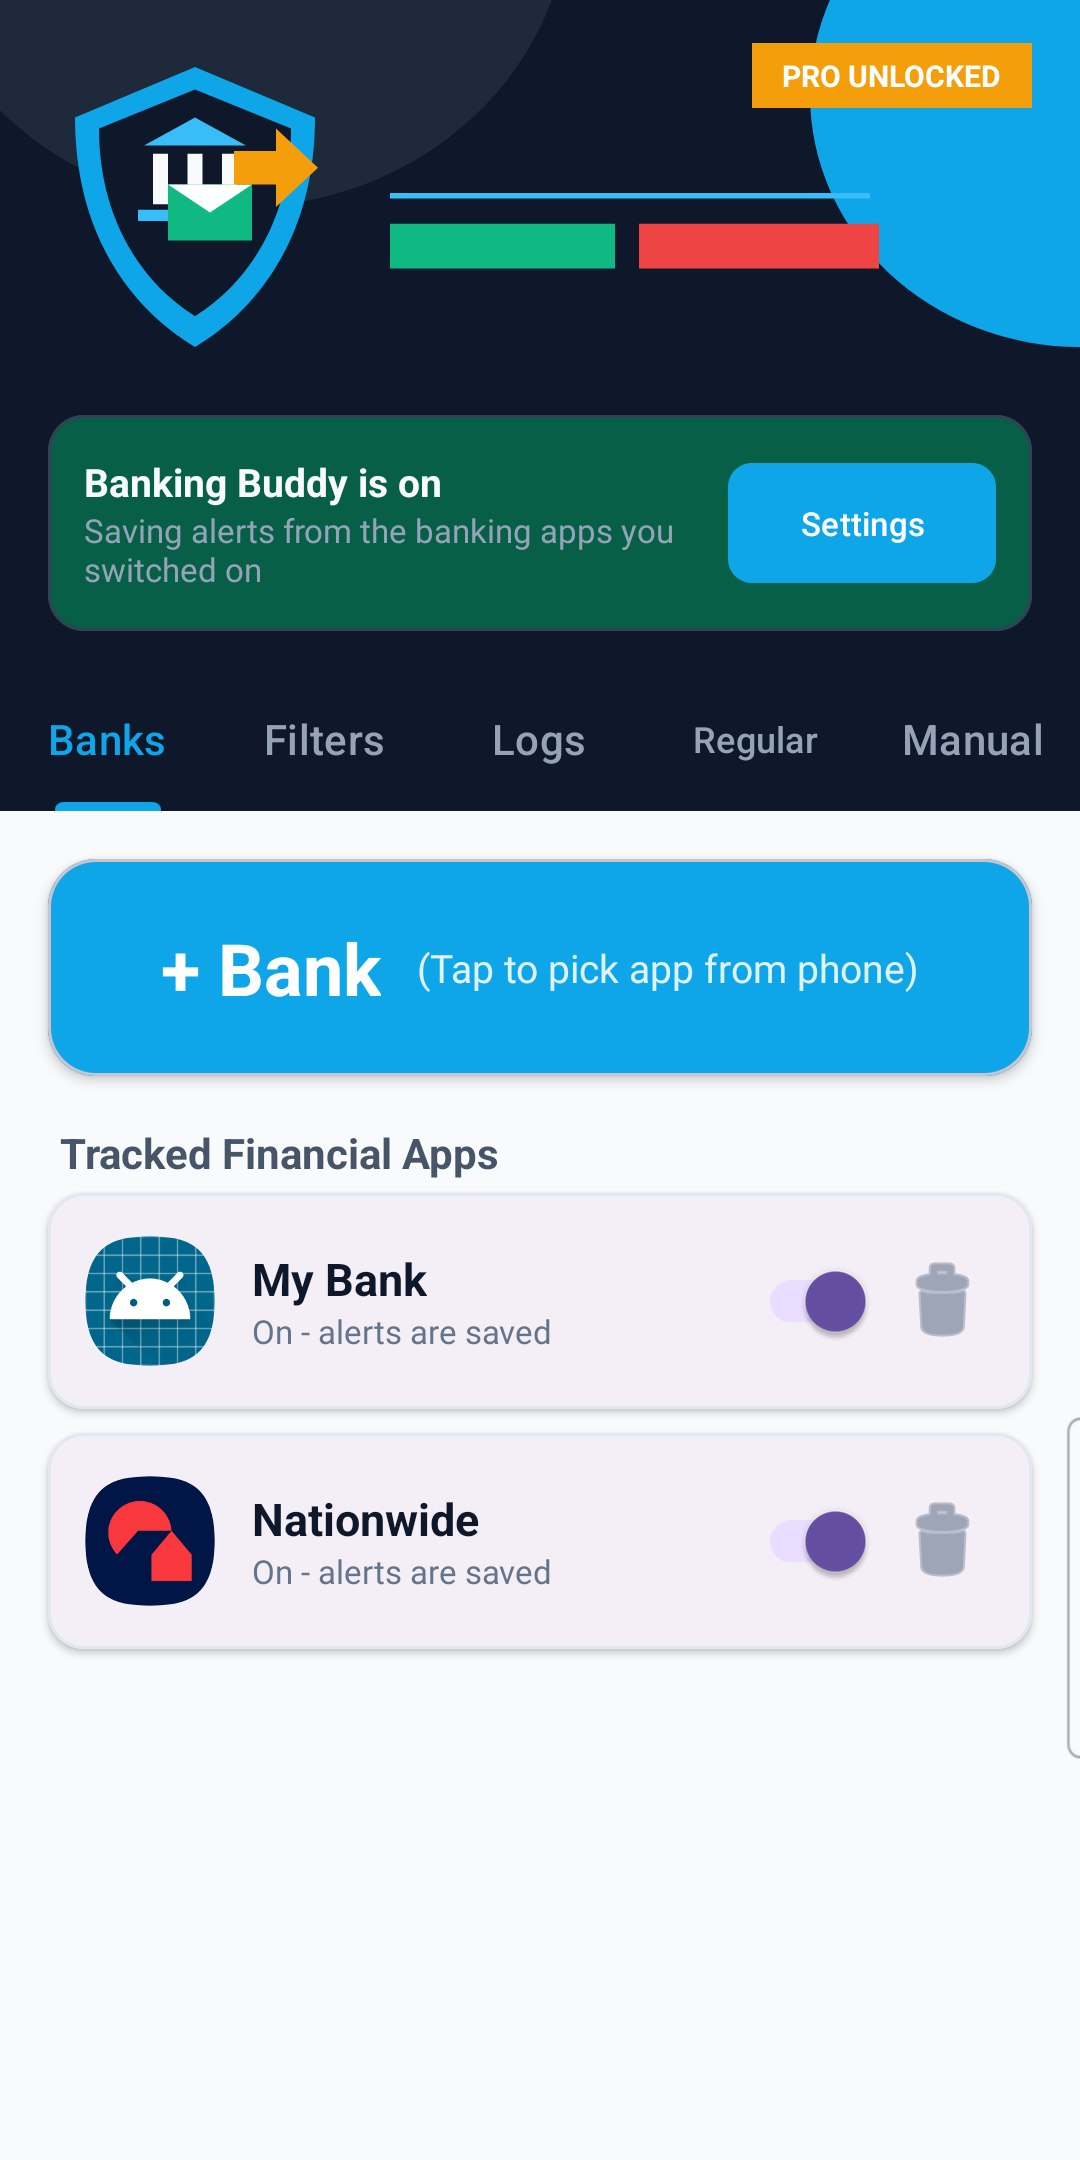
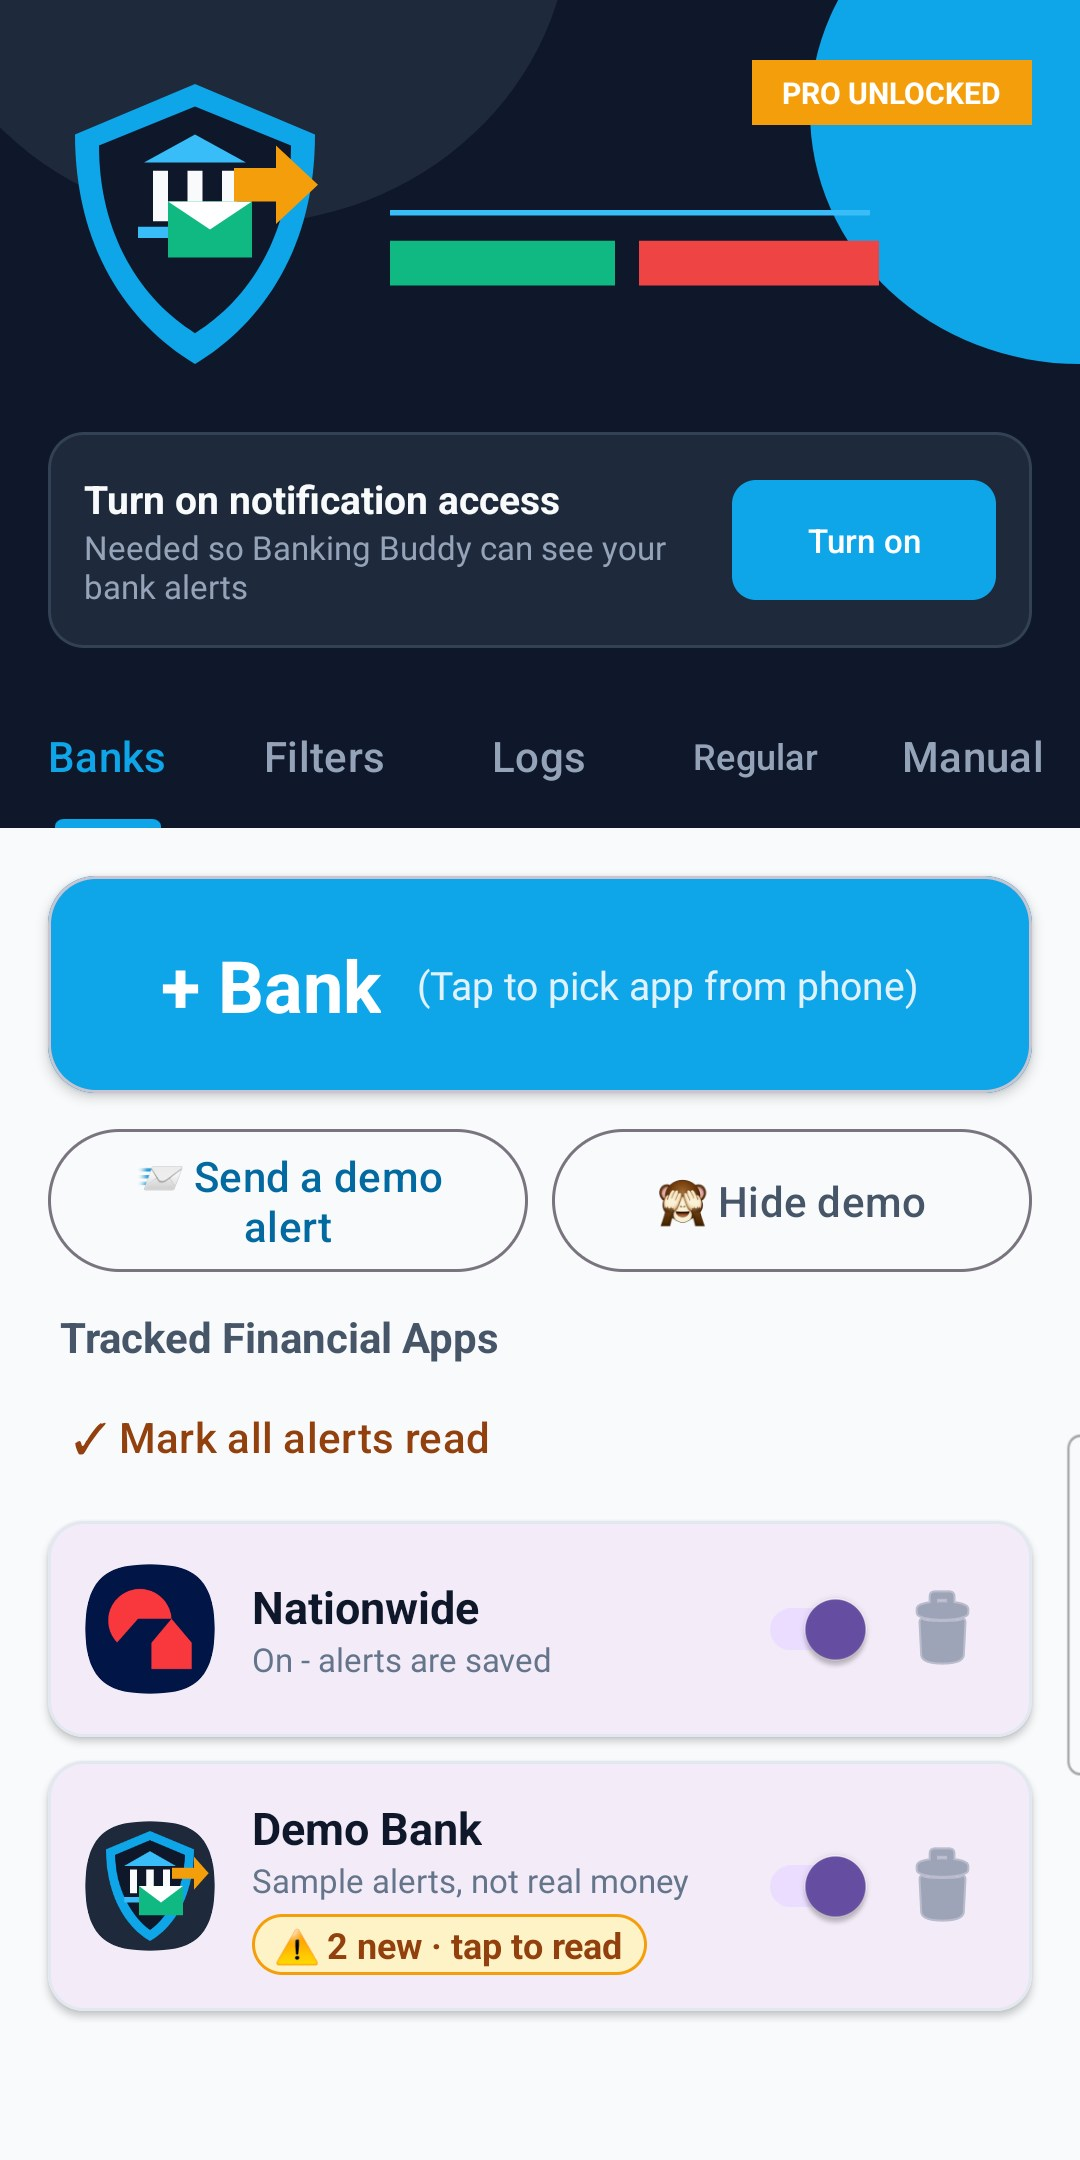
Add files via upload

diff --git a/banking-buddy/index.html b/banking-buddy/index.html
@@ -61,7 +61,7 @@
             <li>The sample alerts are dated this month and the two months before (they refresh when a new month starts): salary, card payments, a car loan, Council Tax, a refund, a payment in dollars, a declined payment and a statement notice, with a note, a ⭐ Saved alert and two regular payments (Salary and Car loan).</li>
             <li>📨 Send a demo alert (Banks tab): adds a new demo alert the same way a bank alert is saved, with the pop-up. The Demo Bank switch and your Filters apply to it too.</li>
             <li>The demo doesn't use any of the free places (2 banking apps, 2 regular payments), and its alerts are always shown.</li>
-            <li>Free version: with Demo Bank selected in Logs, you can try ⭐ CSV and ⭐ Totals on the sample alerts.</li>
+            <li>Free version: with Demo Bank selected in Logs, you can try ⭐ CSV and ⭐ Summary on the sample alerts. Today's sample alerts also start as ⚠ new, so you can see how unread alerts are marked.</li>
             <li>🙈 Hide demo (or the Demo Bank's bin) hides the demo. Your own banks and alerts are not touched. 🧪 Show the demo bank brings it back with fresh sample alerts.</li>
         </ul>
 
@@ -71,6 +71,7 @@
             <li>Switch: on = its alerts are saved, off = its alerts are ignored.</li>
             <li>Bin: removes the app from Banking Buddy. Alerts already saved stay in Logs.</li>
             <li>The free version reads 2 banking apps. Pro reads as many as you like. A bank showing "Needs Pro - alerts not being read" is over the free limit.</li>
+            <li>⚠ 2 new · tap to read: new alerts you haven't looked at yet, even if you swiped the pop-up away. Tap it to open that bank in Logs. ✓ Mark all alerts read clears every ⚠ at once.</li>
         </ul>
 
         <h3>Filters tab</h3>
@@ -89,6 +90,7 @@
             <li>Under the bank name: today's money in and money out, added up from today's alerts.</li>
             <li>🔍 Search: type a shop, payee, amount or note to find alerts.</li>
             <li>Each alert shows MONEY IN, MONEY OUT or NOTICE, the bank, the time and the bank's message.</li>
+            <li>New alerts show ⚠ NEW before the bank name. Once you've seen them in Logs, they count as read when you leave Logs, switch to another bank or close the app, and the ⚠ on the Banks tab goes.</li>
         </ul>
         <p>Buttons on each alert:</p>
         <ul>
@@ -101,6 +103,7 @@
         <ul>
             <li>📤 Share at the top: share all the alerts shown.</li>
             <li>Clear: deletes all alerts except ⭐ Saved ones.</li>
+            <li>⭐ CSV and ⭐ Summary: see ⭐ Pro below.</li>
         </ul>
         <p>The free version shows the last 30 days (plus ⭐ Saved alerts). Older alerts stay on your phone and show again with Pro. Banking Buddy keeps up to 1,000 alerts; when full, the oldest unsaved ones are removed first.</p>
 
@@ -129,8 +132,9 @@
             <li>Unlimited banking apps</li>
             <li>Full alert history</li>
             <li>Unlimited regular payments</li>
-            <li>CSV: a spreadsheet file with date, time, bank, type, regular name, amount (money out as minus), message and your note, for Excel, Google Sheets or your accountant.</li>
-            <li>Totals: money in and money out for each month, added up from the amounts written in the alerts. Alerts without an amount aren't counted, so totals may differ from your bank statement.</li>
+            <li>📊 Summary: choose Week, Month or Year. For each bank: money in, money out and the difference (in minus out), split by type: your named regular payments (Salary, Car loan…), then Other money in and Other money out. With All Banks chosen in Logs, it also shows all banks together. Different currencies are kept apart.</li>
+            <li>📄 CSV: first choose All banks together or one bank. The file has the Summary (every week, month and year, by bank and type, plus all banks together when chosen), then every alert with date, time, bank, type, regular name, amount (money out as minus), message and your note, for Excel, Google Sheets or your accountant.</li>
+            <li>Totals are added up from the amounts written in the alerts. Notices and alerts without an amount aren't counted, so totals may differ from your bank statement.</li>
         </ul>
         <p>Tap GO PRO at the top. Already bought it, or on a new phone with the same Google account? Tap Restore purchase.</p>
 
@@ -152,7 +156,7 @@
         </ul>
 
         <h3>About</h3>
-        <p>Banking Buddy v1.2 (Build 3)</p>
+        <p>Banking Buddy v1.3 (Build 4)</p>
 
         <h3>⚡ WHY BANKING BUDDY</h3>
         <p>Banking Buddy keeps the money in / money out alerts from all your chosen banking apps together in one list, on your phone.</p>
@@ -179,6 +183,16 @@
                 <td><strong>🔁 Regular tab: last amount and "seen this month"</strong></td>
             </tr>
             <tr>
+                <td>Week, month and year totals for each bank and all banks together</td>
+                <td>One bank at a time</td>
+                <td><strong>📊 Summary (Pro): money in, money out and the difference, by type</strong></td>
+            </tr>
+            <tr>
+                <td>New alerts you swiped away</td>
+                <td>Gone from the notification bar</td>
+                <td><strong>⚠ New on the bank's card until you've seen them in Logs</strong></td>
+            </tr>
+            <tr>
                 <td>Bank logins needed</td>
                 <td>Yes, for each app</td>
                 <td><strong>None: it reads the alerts your banking apps already show</strong></td>
@@ -197,22 +211,26 @@
     <div class="screenshot-grid">
         <div class="screenshot-card">
             <img src="banking-buddy-banks.jpg" alt="Banks">
-            <p><strong>1. Banks</strong><br>Your chosen banking apps, with their icons and on/off switches.</p>
+            <p><strong>1. Banks</strong><br>Your chosen banking apps, with their icons, on/off switches and ⚠ new alerts.</p>
         </div>
         <div class="screenshot-card">
             <img src="banking-buddy-logs.jpg" alt="Logs">
-            <p><strong>2. Logs</strong><br>Money in / money out alerts, today's totals, search, notes and share.</p>
+            <p><strong>2. Logs</strong><br>Money in / money out alerts, today's totals, ⚠ NEW marks, search, notes and share.</p>
+        </div>
+        <div class="screenshot-card">
+            <img src="banking-buddy-summary.jpg" alt="Summary">
+            <p><strong>3. Summary</strong><br>Week, month and year: money in, money out and the difference, by type.</p>
         </div>
         <div class="screenshot-card">
             <img src="banking-buddy-regular.jpg" alt="Regular payments">
-            <p><strong>3. Regular</strong><br>Named regular payments: last amount and "seen this month".</p>
+            <p><strong>4. Regular</strong><br>Named regular payments: last amount and "seen this month".</p>
         </div>
         <div class="screenshot-card">
             <img src="banking-buddy-manual.jpg" alt="User Manual">
-            <p><strong>4. Manual</strong><br>The full in-app guide.</p>
+            <p><strong>5. Manual</strong><br>The full in-app guide.</p>
         </div>
     </div>
-    <p style="font-size: 13px; color: #94A3B8;">Screenshots show test alerts from a sample "My Bank" app, with Pro switched on.</p>
+    <p style="font-size: 13px; color: #94A3B8;">Screenshots show test alerts from a sample "My Bank" app and the built-in Demo Bank (sample alerts, not real money), with Pro switched on.</p>
 
     <div class="footer">
         &copy; 2026 AppStack Studio. All rights reserved. | Support: <a href="mailto:appstack1966@gmail.com">appstack1966@gmail.com</a>

diff --git a/banking-buddy/banking-buddy-support.html b/banking-buddy/banking-buddy-support.html
@@ -190,7 +190,7 @@
 
             <div class="faq-item">
                 <h3>Q6: What does Pro include?</h3>
-                <p>Free includes money in / money out alerts from 2 banking apps, the last 30 days of history, notes, sharing and 2 regular payments. Pro adds unlimited banking apps and regular payments, full history, CSV export and monthly totals.</p>
+                <p>Free includes money in / money out alerts from 2 banking apps, the last 30 days of history, notes, sharing and 2 regular payments. Pro adds unlimited banking apps and regular payments, full history, CSV export (all banks together or one bank) and the Summary: week, month and year money in / out for each bank and all banks together.</p>
             </div>
 
             <div class="faq-item">
